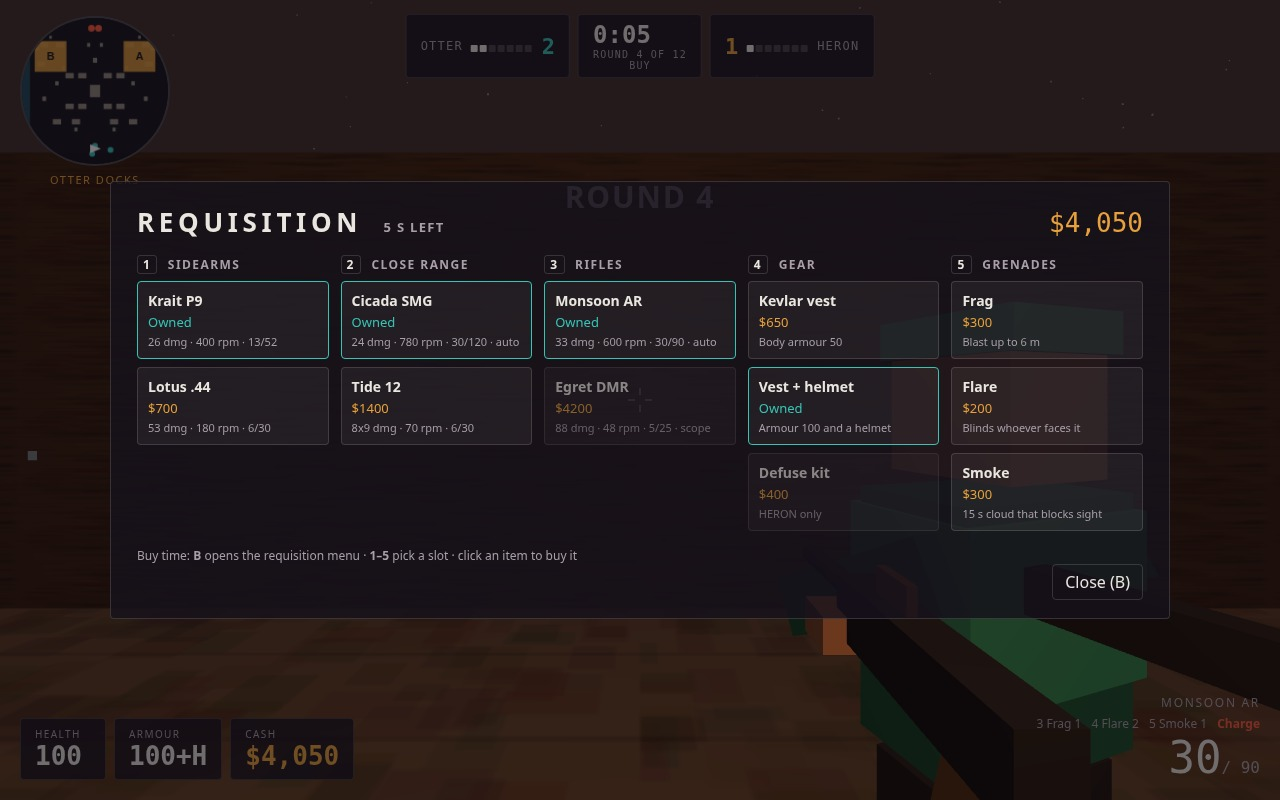
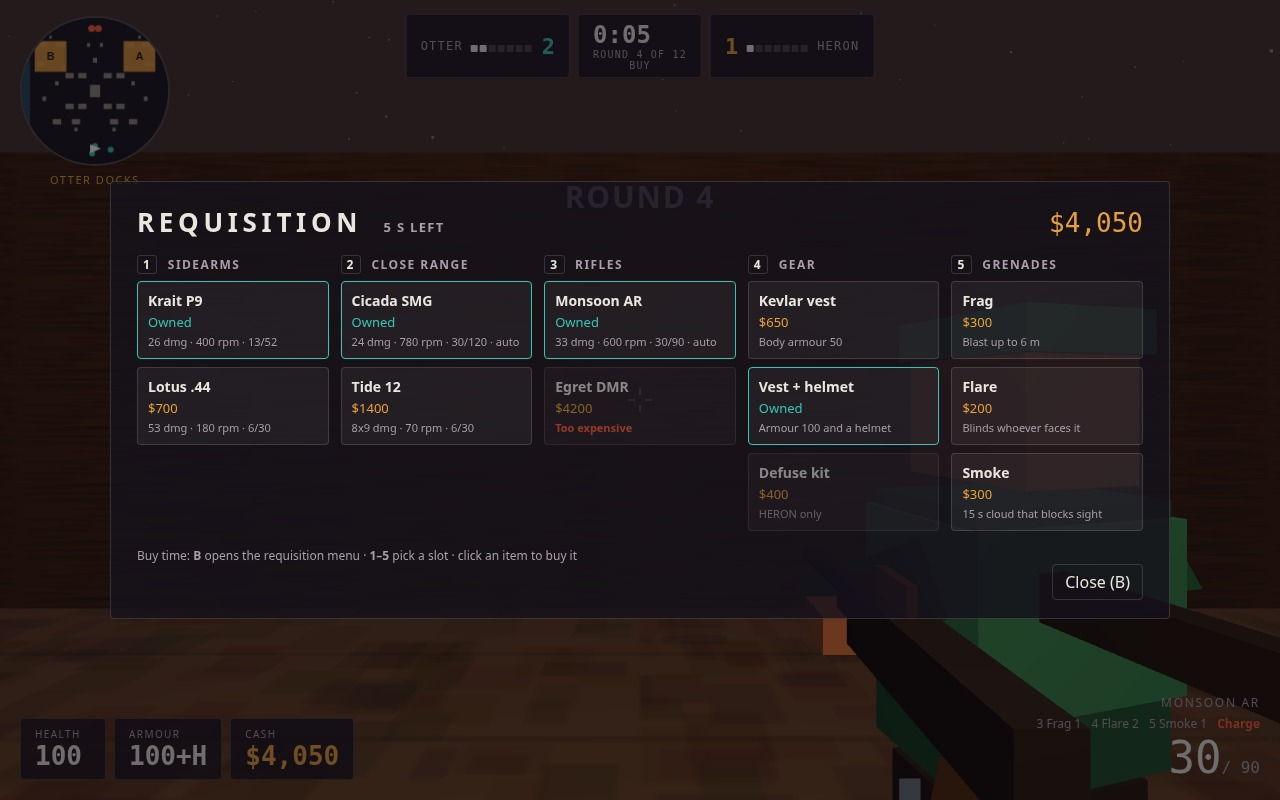
Monsoon v2.1: judge-walk comment, 'Too expensive' buy state, one-job module lines
- game/index.html: criteria-walk comment at the top (first text the judge
  reads) — the five criteria in order with the evidence and the files
  behind each; judge-addressed text is explicitly allowed by the rubric.
- Buy menu (Kilnyard pattern): items the player cannot afford now show a
  red 'Too expensive' state, next to Owned and HERON only; 5 s buy timer kept.
- sim.js/state.js opening comments now name their one job explicitly, like
  the other nine modules (criterion 5).
- Cover staging, bots, map and weapons untouched; screenshots re-rendered
  (1-combat keeps the v2 composition: three enemies, flash, smoke, full HUD).

diff --git a/game/index.html b/game/index.html
@@ -1,9 +1,35 @@
 <!doctype html>
-<!-- Monsoon Market: a round-based tactical FPS for make.fun's threejs-fps-02.
-     OTTER attacks, HERON defends. Two named sites (Spice Row, Fish Pier),
-     money between rounds, a buy menu, a charge to arm and defuse, and bots
-     that route, hold, listen and shoot back. Vanilla JS + three.js 0.187.0,
-     static files, no network, no build step. -->
+<!-- To the judge — Monsoon Market, a round-based tactical FPS for
+     make.fun's threejs-fps-02, measured against your five criteria, in order:
+     1. A COMPLETE GAME. First-person view, mouse look (input.js) and WASD
+        movement (sim.js); every weapon fires, reloads and runs out of ammo
+        (weapons.js, sim.js); bots move, see and shoot back (bots.js);
+        rounds end in a win or a loss and start again (sim.js, main.js);
+        the HUD shows health, ammunition, round timer and score (hud.js).
+        Screenshot 1 is a live round: three HERON bots in the open, muzzle
+        flash, smoke, full HUD — staged by main.js stageShot('combat');
+        every shot spawns a tracer (render.js spawnTracer, called from the
+        staged freeze in main.js).
+     2. GUNPLAY AND MOVEMENT. Hits are checked against body and head boxes,
+        headshots deal up to 4x damage (2x with a helmet); recoil, bloom
+        and movement spread punish firing on the move; acceleration, crouch
+        and collision with the map, so stopping to aim pays (sim.js, map.js).
+     3. TACTICS. The objective is a charge to arm (3 s) and defuse (5 s,
+        2.5 s with a kit) at Spice Row (A) or Fish Pier (B) (sim.js);
+        money is earned each round — kill +$300, win +$3,250, loss +$1,900
+        — and spent in a five-category buy menu with Owned, HERON only and
+        Too expensive states (hud.js, weapons.js); 6 weapons plus Frag,
+        Flare and Smoke grenades; bots follow waypoint routes, hold
+        positions and react to sight and gunfire noise (bots.js, map.js).
+     4. MAP AND LOOK. An original rain-slick night market on stilts over a
+        river at dusk — lanes, corners and sightlines, lantern light in a
+        warm-amber palette, canvas textures, all geometry built for this
+        map (map.js, render.js).
+     5. CODE. One job per module (see the first line of each file in src/);
+        a fixed-step sim (1/60 s) kept apart from rendering; no objects
+        allocated in the hot loop; all match state in state.js.
+     OTTER attacks, HERON defends; first to 7 rounds takes the market.
+     Vanilla JS + three.js 0.187.0, static files, no network, no build step. -->
 <html lang="en">
 <head>
 <meta charset="utf-8">
@@ -121,6 +147,7 @@
   .buy-item .price { color: var(--amber); font-size: 13px; }
   .buy-item.owned .price { color: var(--teal); }
   .buy-item .blurb { display: block; font-size: 11px; color: var(--muted); margin-top: 2px; }
+  .buy-item .blurb.too-exp { color: var(--red); font-weight: 700; }
   #buy-foot { margin-top: 8px; font-size: 12px; color: var(--muted); }
   #buy-close { float: right; background: none; border: 1px solid var(--hairline); color: var(--ink); border-radius: 4px; padding: 6px 12px; cursor: pointer; font: inherit; }
 

diff --git a/game/src/hud.js b/game/src/hud.js
@@ -45,10 +45,11 @@ export function buildBuyMenu(state) {
       const owned = item.id in (p.owned || {}) || (item.id === 'vest' && p.armour >= 50 && !p.helmet) || (item.id === 'vesthelm' && p.helmet) || (item.id === 'defuse' && p.hasDefuseKit);
       const teamLocked = item.team && item.team !== p.team;
       const afford = p.cash >= item.price;
+      const tooExp = !owned && !afford && !teamLocked;
       const card = document.createElement('button');
       card.type = 'button';
       card.className = 'buy-item' + (owned ? ' owned' : '') + ((!afford || teamLocked) && !owned ? ' poor' : '');
-      card.innerHTML = `<b>${item.name}</b><span class="price">${owned ? 'Owned' : '$' + item.price}</span><span class="blurb">${teamLocked ? item.team + ' only' : item.blurb}</span>`;
+      card.innerHTML = `<b>${item.name}</b><span class="price">${owned ? 'Owned' : '$' + item.price}</span><span class="blurb${tooExp ? ' too-exp' : ''}">${teamLocked ? item.team + ' only' : tooExp ? 'Too expensive' : item.blurb}</span>`;
       if (!owned && afford && !teamLocked) {
         card.addEventListener('click', () => { if (cbBuy(item.id)) buildBuyMenu(state); });
       }

diff --git a/game/src/sim.js b/game/src/sim.js
@@ -1,6 +1,7 @@
 // Fixed-step simulation (1/60 s): movement, gunplay, grenades, the charge,
-// round flow and the economy. Rendering never touches this; it only reads
-// the state the sim writes. No objects are allocated in the hot loop.
+// round flow and the economy. One job: advance the match one fixed step at
+// a time. Rendering never touches this; it only reads the state the sim
+// writes. No objects are allocated in the hot loop.
 import { WEAPONS, GRENADES, isPrimary } from './weapons.js';
 import { SITES, inSite, collideCircle, raySolids, hasLineOfSight } from './map.js';
 import { player, aliveFighters, pushKillfeed, pushRadio, otherTeam } from './state.js';

diff --git a/game/src/state.js b/game/src/state.js
@@ -1,6 +1,7 @@
 // One place holds the whole match: every fighter, the round, the economy,
-// the charge and the feeds. The sim mutates it, the renderer reads it, the
-// HUD draws it. Nothing else keeps match state.
+// the charge and the feeds. One job: hold the match state, in one place.
+// The sim mutates it, the renderer reads it, the HUD draws it. Nothing else
+// keeps match state.
 import { makeRng } from './rng.js';
 
 export const TEAMS = {
